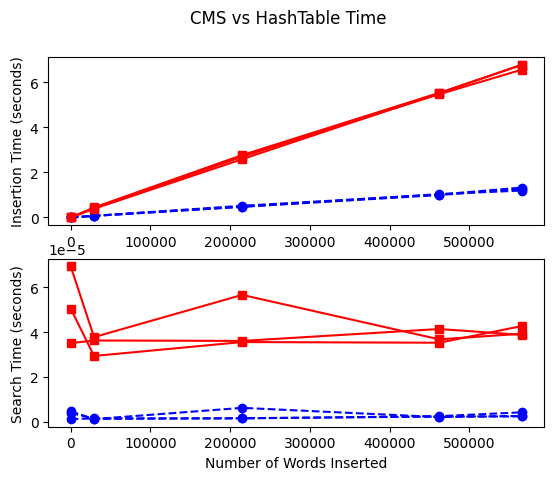
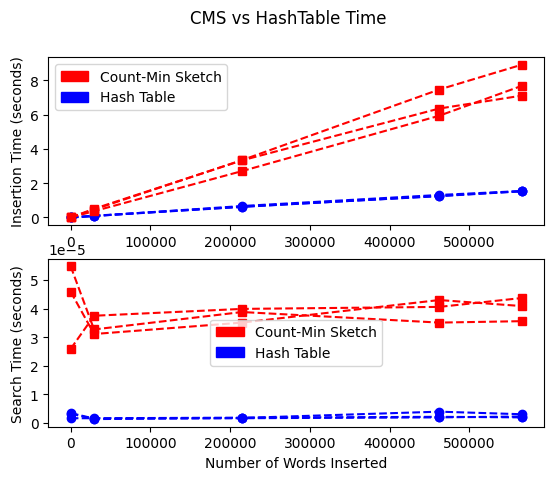
Removed Grammar Marks when inputting data

diff --git a/driver.py b/driver.py
@@ -4,6 +4,8 @@ from timeit import default_timer as timer
 
 import numpy as np
 import matplotlib.pyplot as plt
+import matplotlib.patches as mpatches
+import re
 
 """
 returns 
@@ -16,6 +18,7 @@ def insertCMS(num_hash, buckets, filepath):
 
     for line in file:
         for word in line.split():
+            word = re.sub(r'[^\w\s]', '', word)
             cms.insert(word)
 
     end = timer()
@@ -31,6 +34,7 @@ def insertHT(filepath):
 
     for line in file:
         for word in line.split():
+            word = re.sub(r'[^\w\s]', '', word)
             try:
                 ht.insert(word, ht.find(word) + 1)
                 continue
@@ -106,6 +110,13 @@ if __name__ == '__main__':
     iplot.set_ylabel('Insertion Time (seconds)')
     splot.set_ylabel('Search Time (seconds)')
     splot.set_xlabel('Number of Words Inserted')
+    
+    # Legend
+    red_patch = mpatches.Patch(color='red', label='Count-Min Sketch')
+    blue_patch = mpatches.Patch(color='blue', label='Hash Table')
+    iplot.legend(handles=[red_patch, blue_patch])
+    splot.legend(handles=[red_patch, blue_patch])
+    
     fig.suptitle('CMS vs HashTable Time')
     fig.savefig('cms_ht_time.png', bbox_inches='tight')
     

diff --git a/classes/HashTable.py b/classes/HashTable.py
@@ -87,8 +87,11 @@ class HashTable(object):
         sized array.
         """
         ht = HashTable(len(self.array) * 2)
+        self.uniqueSize = 0
         for i in range(len(self.array)):
             if self.array[i] is not None:
                 for pair in self.array[i]:
                     ht.insert(pair[0], pair[1])
         self.array = ht.array
+        self.uniqueSize = ht.uniqueSize
+        self.numElements = ht.numElements
